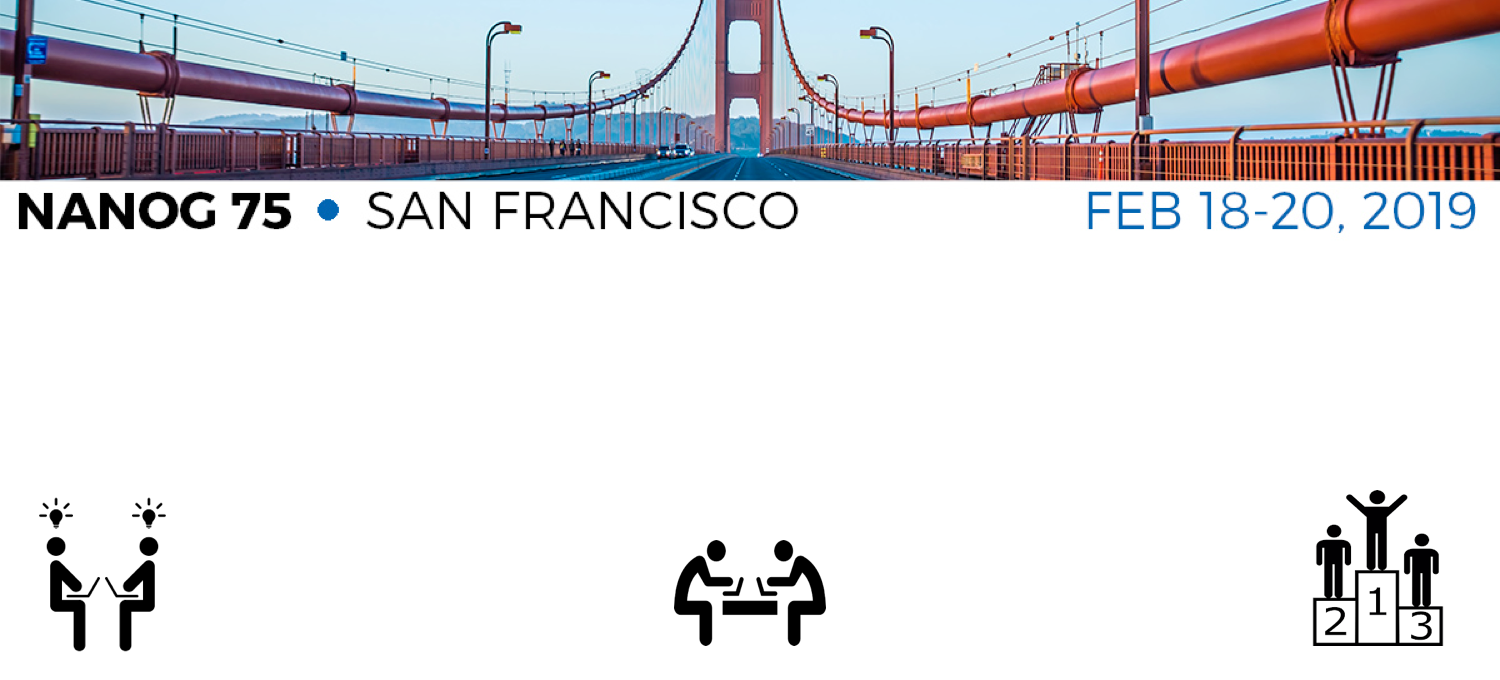
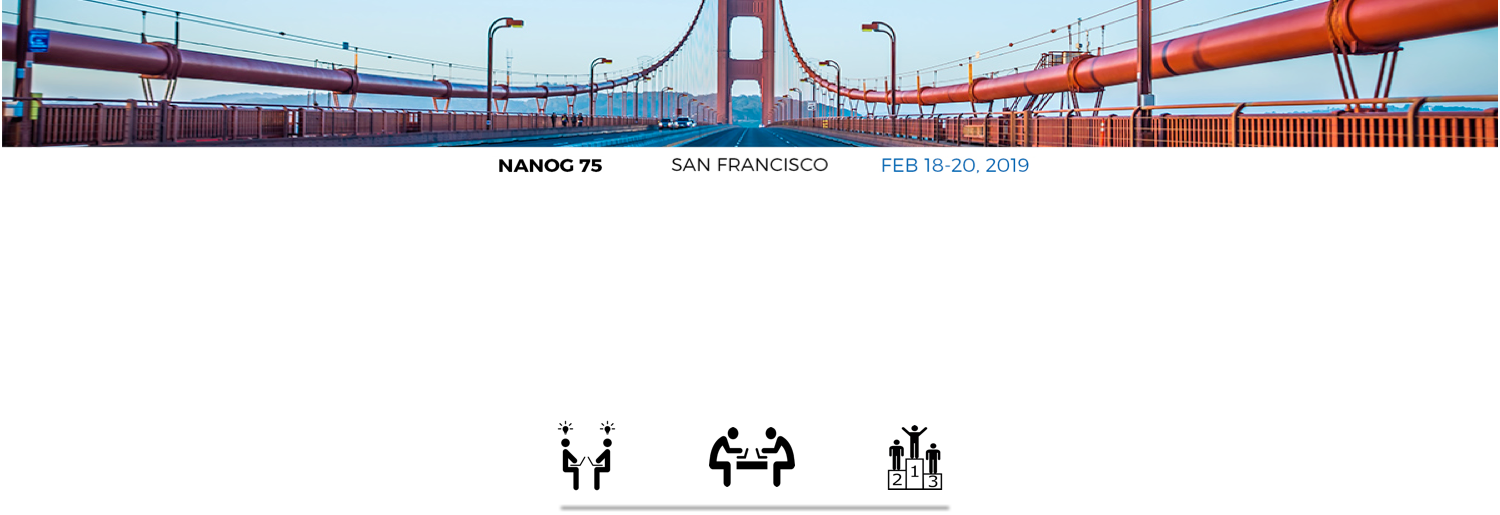
Fixed the home page a bit

diff --git a/_layouts/homepage.html b/_layouts/homepage.html
@@ -13,19 +13,19 @@
 {% include browser-upgrade.html %}
 {% include masthead.html %}
 
-<div class="page__hero--overlay" style="background-image: url('images/nanog75_home_page_background.png');">
-    <div class="wrapper" style="text-align:center;">
-        <h1 class="page__title" itemprop="headline" style="">
+<div class="page__hero--overlay" style="background-image: url('images/nanog75_home_page_background.png'); height: 600px;">
+    <div class="wrapper" style="text-align:center; margin-top: 200px;">
+        <h1 class="page__title" itemprop="headline" style="color: #0c0c10;text-shadow: 0px 0px 0px #000;">
             Welcome to the Nanog75 Hackathon!
         </h1>
-        <p class="page__lead" style="font-size: 0.9em;text-align:center;">
-            With a strong focus on operations - from Day0 zero-touch provisioning, to Day1 network-wide automation using Yang Models, Ansible GNMI, YDK and Open/R to Day3 based Controller-based Remediation through Openconfig gRIBI - it's time to bring your automation chops to the table!  
+        <p class="page__lead" style="font-size: 0.9em;text-align:center;color:#0c0c10;text-shadow: 0px 0px 0px #000;">
+            With a strong focus on operations and automation, hack your way through network provisioning and management using industry tools and APIs -from ZTP,YDK, Ansible, GNMI, Open/R to gRIBI APIs and more, phew! - it's time to bring your automation chops to the table!  
         </p>
         <p>
-            <a href="{{ base_path }}/day0-instructions" class="btn btn--large"><i class='fa fa-step-forward'></i>Day0</a>
-            <a href="{{ base_path }}/day1-instructions" class="btn btn--large"><i class='fa fa-step-forward'></i>Day1</a>
-            <a href="{{ base_path }}/day2-instructions" class="btn btn--large"><i class='fa fa-step-forward'></i>Day2</a>
-            <a href="{{ base_path }}/connect-to-pods/" class="btn btn--x-large"><i class='fa fa-step-forward'></i> Connect to your pods!</a>
+            <a href="{{ base_path }}/day0-instructions" class="btn btn--small btn--inverse"><i class='fa fa-step-forward'></i>  Day0</a>
+            <a href="{{ base_path }}/day1-instructions" class="btn btn--small btn--inverse"><i class='fa fa-step-forward'></i>  Day1</a>
+            <a href="{{ base_path }}/day2-instructions" class="btn btn--small btn--inverse"><i class='fa fa-step-forward'></i>  Day2</a>
+            <a href="{{ base_path }}/connect-to-pods/" class="btn btn--small btn--inverse"><i class='fa fa-step-forward'></i>  Connect to your pods!</a>
             <!--<a href="https://www.youtube.com/watch?v=yiN8fAxlfwg" class="btn btn&#45;&#45;large" data-lity><i class='fa fa-play-circle-o'></i> Watch Video</a>-->
             <!--<a href="https://github.com/cisco-service-layer" class="btn btn&#45;&#45;large" data-lity><i class='fa fa-github'></i> Github</a>-->
         </p>
